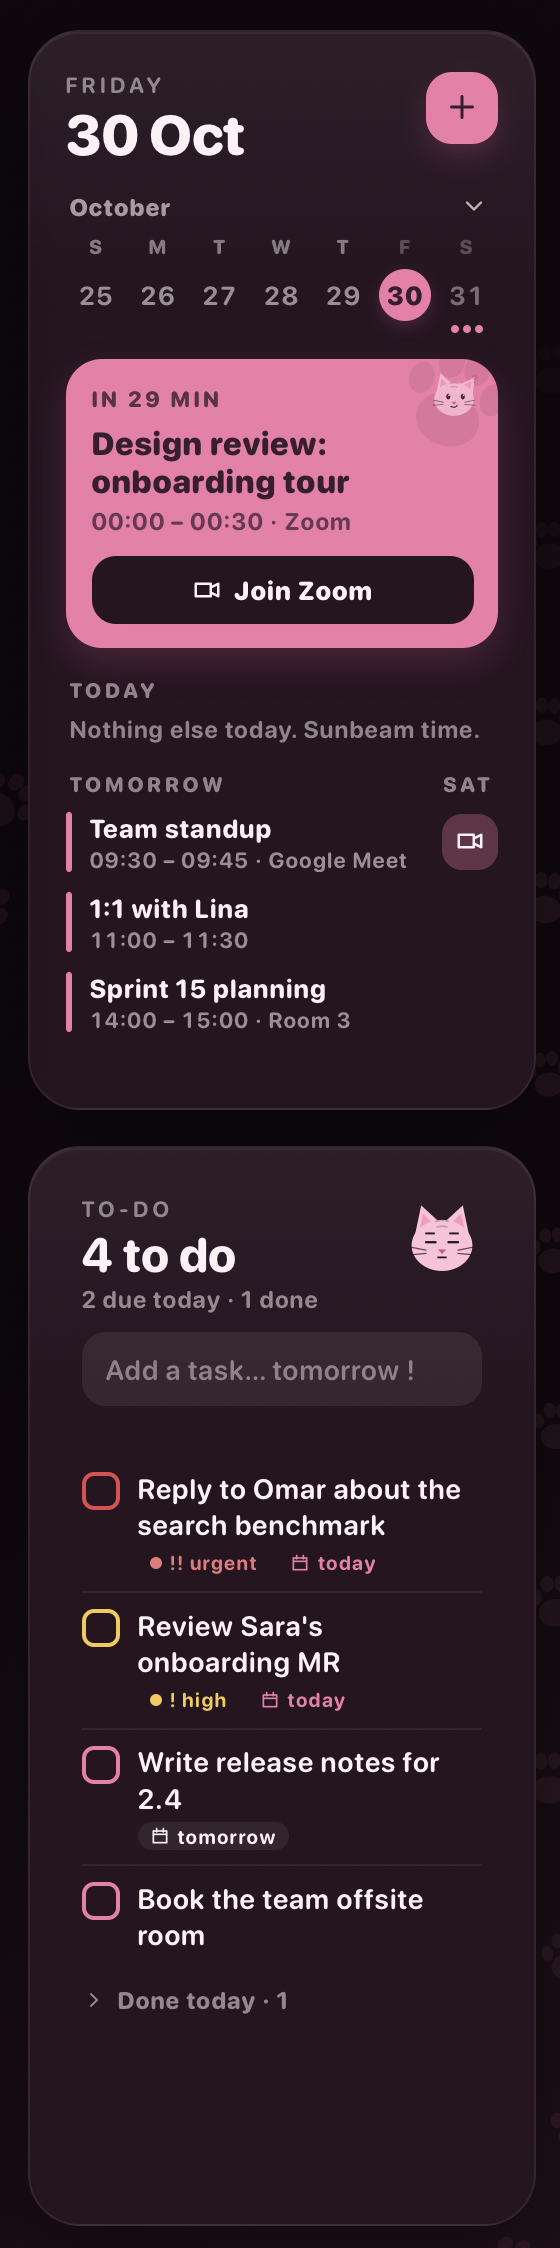
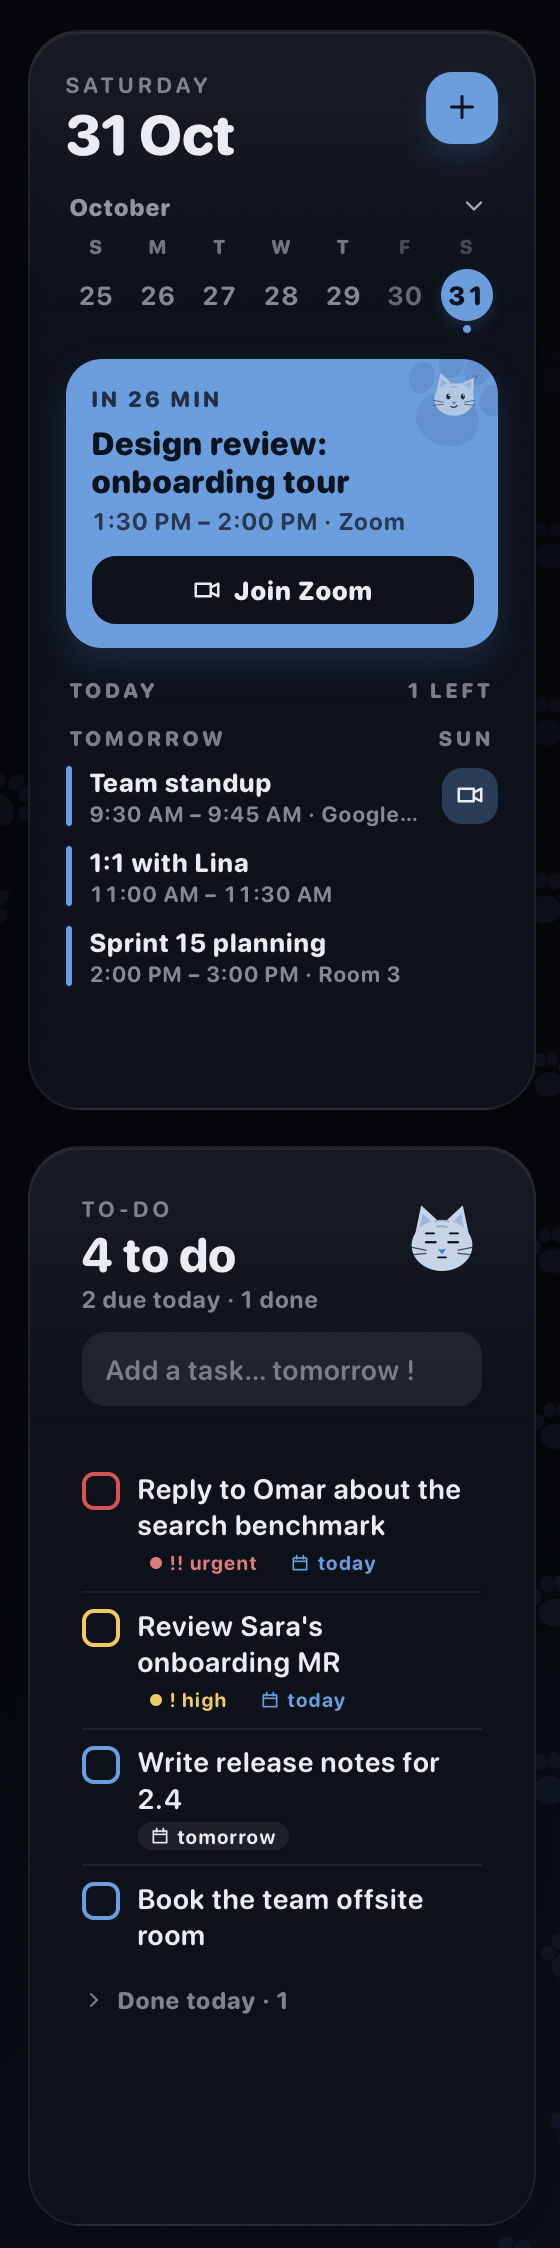
New screenshots: Midnight for the features, the repo on dev, 12-hour times, tinted macOS widgets; drop Pick your look

diff --git a/README.md b/README.md
@@ -26,9 +26,9 @@ See what needs you, act on it in one click, and get a notification the moment so
 
 <table>
 <tr>
-<td width="33%"><a href="#pick-your-look"><img src="screenshots/theme-midnight.jpg" alt="Midnight theme"></a></td>
-<td width="33%"><a href="#pick-your-look"><img src="screenshots/theme-matcha.jpg" alt="Matcha theme"></a></td>
-<td width="33%"><a href="#pick-your-look"><img src="screenshots/theme-lavender.jpg" alt="Lavender theme"></a></td>
+<td width="33%"><img src="screenshots/theme-midnight.jpg" alt="Midnight theme"></td>
+<td width="33%"><img src="screenshots/theme-matcha.jpg" alt="Matcha theme"></td>
+<td width="33%"><img src="screenshots/theme-lavender.jpg" alt="Lavender theme"></td>
 </tr>
 <tr>
 <td align="center"><sub><b>Midnight</b></sub></td>
@@ -162,23 +162,6 @@ Your own actions never notify you. Turn each kind on or off in **Settings › De
 2. **Start the branch** (or a worktree), named after the ticket.
 3. **Open the merge request.** Title and description come from the ticket and your commits. Whisker pushes the branch and offers to move the ticket to review.
 4. **Merge** from the Review inbox, and Whisker offers the ticket's next state.
-
-<br>
-
-## Pick your look
-
-Five themes, or your own accent colour. Sakura is the pink one at the top; here are three more.
-
-![Midnight theme](screenshots/theme-midnight.jpg)
-<p align="center"><sub><b>Midnight</b></sub></p>
-
-![Matcha theme](screenshots/theme-matcha.jpg)
-<p align="center"><sub><b>Matcha</b></sub></p>
-
-![Lavender theme](screenshots/theme-lavender.jpg)
-<p align="center"><sub><b>Lavender</b></sub></p>
-
-Plus **Tabby**; mixed, all-dark or all-light tiles; and a matching background or your own wallpaper.
 
 <br>
 
